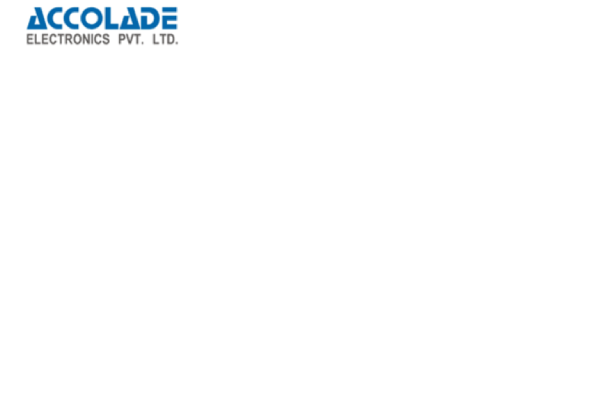
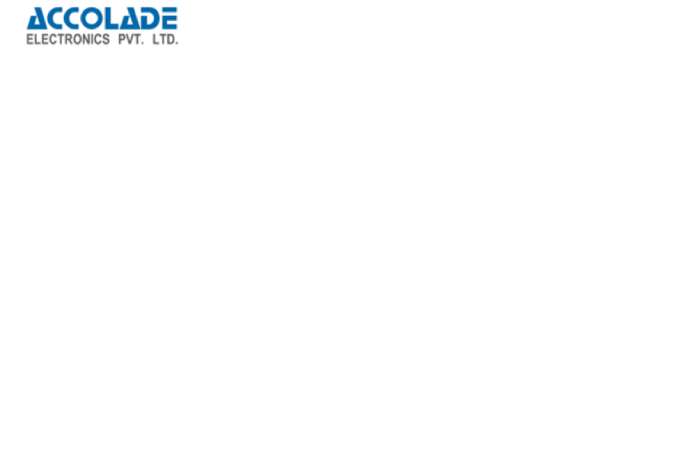
Update UI increased dimension (600x400) -> (680, 460)

Changed region(s): [[0.03, 0.0, 0.3, 0.12]]

diff --git a/service_tool.py b/service_tool.py
@@ -430,7 +430,7 @@ class ServiceToolUi(QtWidgets.QMainWindow):
         self.labelVersion.setText('SERVICE TOOL v{}'.format(VERSION))
         self.labelBuild.setText('QA build 05 Aug 2024')
         
-        self.setFixedSize(600,400)
+        self.setFixedSize(680,460)
         self.show() # show the gui
     
     def writeFiles(self):
